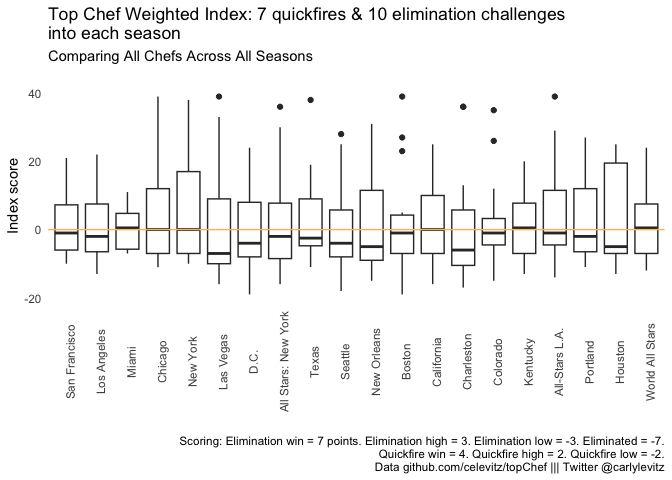
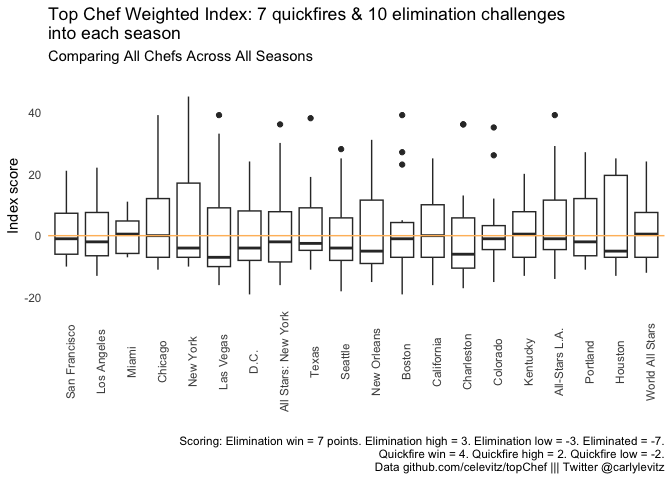
Update read me so that vizzes have axes that show all data

diff --git a/README.md b/README.md
@@ -53,21 +53,22 @@ whether they are a person of color, and their occupation.
 
 ``` r
 chefdetails 
-#> # A tibble: 416 × 13
+#> # A tibble: 431 × 14
 #>    name    chef  hometown city  state   age season seasonNumber series placement
 #>    <chr>   <chr> <chr>    <chr> <chr> <dbl> <chr>         <dbl> <chr>      <dbl>
-#>  1 Richar… Rich… <NA>     <NA>  <NA>     38 All S…            8 US             1
-#>  2 Mike I… Mike… <NA>     <NA>  <NA>     35 All S…            8 US             2
-#>  3 Antoni… Anto… <NA>     <NA>  <NA>     34 All S…            8 US             3
-#>  4 Tiffan… Tiff… <NA>     <NA>  <NA>     27 All S…            8 US             4
-#>  5 Carla … Carl… <NA>     <NA>  <NA>     46 All S…            8 US             5
-#>  6 Dale T… Dale… <NA>     <NA>  <NA>     32 All S…            8 US             6
-#>  7 Angelo… Ange… <NA>     <NA>  <NA>     35 All S…            8 US             7
-#>  8 Fabio … Fabi… <NA>     <NA>  <NA>     32 All S…            8 US             8
-#>  9 Tre Wi… Tre … <NA>     <NA>  <NA>     34 All S…            8 US             9
-#> 10 Marcel… Marc… <NA>     <NA>  <NA>     30 All S…            8 US            10
-#> # ℹ 406 more rows
-#> # ℹ 3 more variables: personOfColor <chr>, occupation <chr>, gender <chr>
+#>  1 Aaron … Aaro… Livonia… Chic… Illi…    29 New O…           11 US            17
+#>  2 Aaron … Aaro… Tacoma,… Nort… Cali…    27 Boston           12 US            11
+#>  3 Adam H… Adam… New Yor… New … New …    29 Boston           12 US             7
+#>  4 Adrien… Adri… Chicago… Harl… New …    NA Color…           15 US             2
+#>  5 Adrien… Adri… <NA>     Bost… Mass…    NA Kentu…           16 US             5
+#>  6 Alex E… Alex… New Yor… Los … Cali…    33 New Y…            5 US            13
+#>  7 Alex R… Alex… Brookly… Holl… Cali…    33 D.C.              7 US             7
+#>  8 Alex S… Alex… <NA>     Las … Neva…    NA Maste…            3 US Ma…         7
+#>  9 Ali Gh… Ali … Irbid, … Amman Jord…    NA World…           20 US             4
+#> 10 Alisha… Alis… Palatin… Chic… Illi…    NA Wisco…           21 US            NA
+#> # ℹ 421 more rows
+#> # ℹ 4 more variables: personOfColor <chr>, occupation <chr>, gender <chr>,
+#> #   occupation_category <chr>
 ```
 
 #### 4.a.ii. Challenge descriptions
@@ -77,7 +78,7 @@ compete in.
 
 ``` r
 challengedescriptions 
-#> # A tibble: 641 × 17
+#> # A tibble: 643 × 17
 #>    season   seasonNumber series episode challengeType outcomeType
 #>    <chr>           <dbl> <chr>    <dbl> <chr>         <chr>      
 #>  1 Kentucky           16 US           1 Quickfire     Team       
@@ -90,7 +91,7 @@ challengedescriptions
 #>  8 Kentucky           16 US           4 Elimination   Team       
 #>  9 Kentucky           16 US           5 Elimination   Team       
 #> 10 Kentucky           16 US           6 Elimination   Individual 
-#> # ℹ 631 more rows
+#> # ℹ 633 more rows
 #> # ℹ 11 more variables: challengeDescription <chr>, shopTime <chr>,
 #> #   shopBudget <chr>, prepTime <dbl>, cookTime <dbl>, productPlacement <chr>,
 #> #   advantage <chr>, lastChanceKitchenWinnerEnters <chr>,
@@ -104,21 +105,21 @@ A tibble containing win and loss data for each chef in each episode.
 
 ``` r
 challengewins
-#> # A tibble: 9,667 × 9
-#>    season  seasonNumber series episode inCompetition chef  challengeType outcome
-#>    <chr>          <dbl> <chr>    <dbl> <lgl>         <chr> <chr>         <chr>  
-#>  1 All St…            8 US           1 TRUE          Ange… Quickfire     LOW    
-#>  2 All St…            8 US           1 TRUE          Anto… Quickfire     WIN    
-#>  3 All St…            8 US           1 TRUE          Carl… Quickfire     LOW    
-#>  4 All St…            8 US           1 TRUE          Case… Quickfire     HIGH   
-#>  5 All St…            8 US           1 TRUE          Dale… Quickfire     HIGH   
-#>  6 All St…            8 US           1 TRUE          Dale… Quickfire     WIN    
-#>  7 All St…            8 US           1 TRUE          Elia… Quickfire     LOW    
-#>  8 All St…            8 US           1 TRUE          Fabi… Quickfire     LOW    
-#>  9 All St…            8 US           1 TRUE          Jami… Quickfire     LOW    
-#> 10 All St…            8 US           1 TRUE          Jenn… Quickfire     HIGH   
-#> # ℹ 9,657 more rows
-#> # ℹ 1 more variable: rating <dbl>
+#> # A tibble: 9,712 × 10
+#>    season   seasonNumber series episode inCompetition immune chef  challengeType
+#>    <chr>           <dbl> <chr>    <dbl> <lgl>         <lgl>  <chr> <chr>        
+#>  1 All Sta…            8 US           1 TRUE          FALSE  Ange… Quickfire    
+#>  2 All Sta…            8 US           1 TRUE          FALSE  Anto… Quickfire    
+#>  3 All Sta…            8 US           1 TRUE          FALSE  Carl… Quickfire    
+#>  4 All Sta…            8 US           1 TRUE          FALSE  Case… Quickfire    
+#>  5 All Sta…            8 US           1 TRUE          FALSE  Dale… Quickfire    
+#>  6 All Sta…            8 US           1 TRUE          FALSE  Dale… Quickfire    
+#>  7 All Sta…            8 US           1 TRUE          FALSE  Elia… Quickfire    
+#>  8 All Sta…            8 US           1 TRUE          FALSE  Fabi… Quickfire    
+#>  9 All Sta…            8 US           1 TRUE          FALSE  Jami… Quickfire    
+#> 10 All Sta…            8 US           1 TRUE          FALSE  Jenn… Quickfire    
+#> # ℹ 9,702 more rows
+#> # ℹ 2 more variables: outcome <chr>, rating <dbl>
 ```
 
 #### 4.a.iv. Judges
@@ -128,7 +129,7 @@ challenge.
 
 ``` r
 judges 
-#> # A tibble: 755 × 9
+#> # A tibble: 757 × 9
 #>    season       seasonNumber series episode challengeType outcomeType guestJudge
 #>    <chr>               <dbl> <chr>    <dbl> <chr>         <chr>       <chr>     
 #>  1 All Stars: …            8 US           1 Quickfire     Team        Tom Colic…
@@ -141,7 +142,7 @@ judges
 #>  8 All Stars: …            8 US           4 Quickfire     Individual  Tony Mant…
 #>  9 All Stars: …            8 US           4 Elimination   Team        Tony Mant…
 #> 10 All Stars: …            8 US           5 Quickfire     Individual  Tom Colic…
-#> # ℹ 745 more rows
+#> # ℹ 747 more rows
 #> # ℹ 2 more variables: competedOnTC <chr>, otherShows <chr>
 ```
 
@@ -175,7 +176,7 @@ A tibble containing information about each episode.
 
 ``` r
 episodeinfo 
-#> # A tibble: 358 × 8
+#> # A tibble: 359 × 8
 #>    season        seasonNumber series overallEpisodeNumber episode episodeName   
 #>    <chr>                <dbl> <chr>                 <dbl>   <dbl> <chr>         
 #>  1 Canada 6                 6 Canada                   60       1 The Next Wave 
@@ -188,7 +189,7 @@ episodeinfo
 #>  8 Canada 6                 6 Canada                   67       8 Finale Four W…
 #>  9 San Francisco            1 US                        1       1 Who Deserves …
 #> 10 San Francisco            1 US                        2       2 Food of Love  
-#> # ℹ 348 more rows
+#> # ℹ 349 more rows
 #> # ℹ 2 more variables: airDate <date>, nCompetitors <dbl>
 ```
 
@@ -411,7 +412,7 @@ library(dplyr)
       labs(title=paste0("Top Chef Weighted Index Scores at the End of Seasons")
            ,subtitle="Comparing All Chefs Across All Seasons\n")+
       ylab("Index Score") + xlab("Placement") +
-      scale_y_continuous(lim=c(-25,50)) +
+      scale_y_continuous(lim=c(-25,60)) +
       scale_x_continuous(lim=c(0,20),breaks=seq(1,18,2),labels = seq(1,18,2)) +
       theme(panel.grid = element_blank() 
             ,axis.text.x=element_text(size=6,color="black")
@@ -430,7 +431,7 @@ library(dplyr)
         geom_text(hjust=0.5,size=2) +
       theme_minimal() +
       ylab("Index score") + xlab("Placement") +
-      scale_y_continuous(lim=c(-25,50)) +
+      scale_y_continuous(lim=c(-25,60)) +
       scale_x_continuous(lim=c(0,20),breaks=seq(1,18,2),labels = seq(1,18,2)) +
       theme(panel.grid = element_blank() 
             ,axis.text.x=element_text(size=6,color="black")
@@ -448,7 +449,7 @@ library(dplyr)
         geom_text(hjust=0.5,size=2) +
         theme_minimal() +
         ylab("Index Score") + xlab("Placement") +
-        scale_y_continuous(lim=c(-25,50)) +
+        scale_y_continuous(lim=c(-25,60)) +
         scale_x_continuous(lim=c(0,20),breaks=seq(1,18,2),labels = seq(1,18,2)) +
         theme(panel.grid = element_blank() 
               ,axis.text.x=element_text(size=6,color="black")
